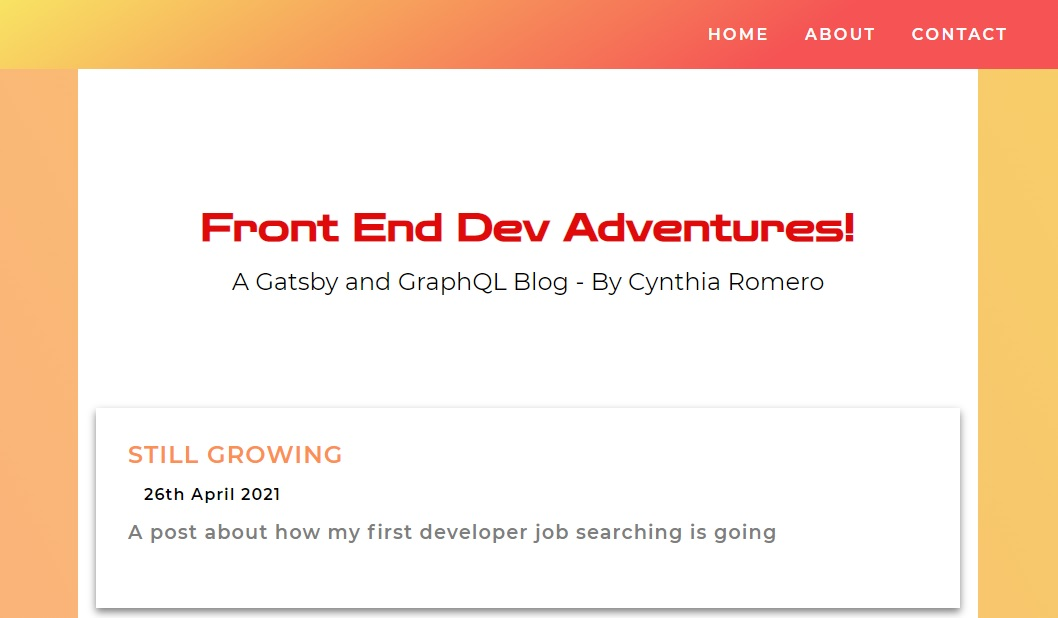
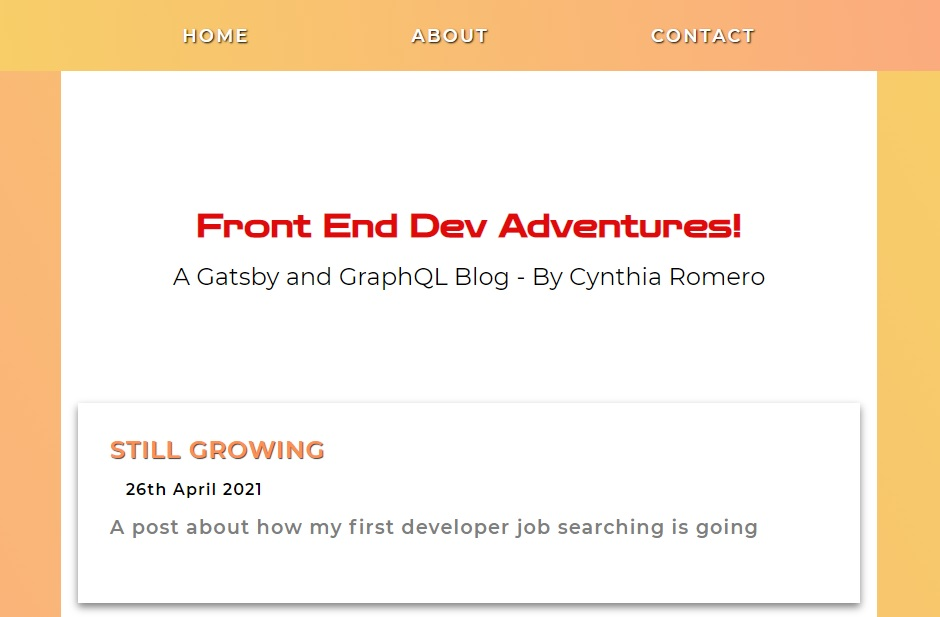
New styles

Changed region(s): [[0.0617, 0.0, 1.0, 1.0], [0.1851, 0.3387, 0.833, 0.4003], [0.1851, 0.4311, 0.833, 0.4927]]

diff --git a/src/components/scenes/MyProjects/Project.elements.js b/src/components/scenes/MyProjects/Project.elements.js
@@ -13,7 +13,9 @@ export const StyledProject = styled.article`
   border-radius: 0.5rem;
   background-color: transparent;
   width: 90%;
-  background-color: rgba(0, 0, 0, 0.7);
+  background-color: rgba(0, 0, 0, 0.35);
+  border-bottom: 0.1rem solid rgba(0, 0, 0, 0.25);
+  border-left: 0.1rem solid rgba(0, 0, 0, 0.25);
   min-width: 18.75rem;
   box-shadow: 0.625rem 0.625rem 0.313rem 0rem rgba(0, 0, 0, 0.25);
 
@@ -68,7 +70,7 @@ export const ProjectButton = styled(Button)`
       color: #e0c3fc;
       border-color: #e0c3fc;
       background-image: none;
-      box-shadow: inset -0.1rem 0.15rem rgba(0, 0, 0, 0.63);
+      box-shadow: inset -0.1rem 0.15rem rgba(0, 0, 0, 0.35);
     }
   }
   ${Button}

diff --git a/src/components/styles/globalStyles.js b/src/components/styles/globalStyles.js
@@ -10,12 +10,11 @@ const GlobalStyle = createGlobalStyle`
     box-sizing: border-box;
 }
 
-body{
+body {
   font-family: "Montserrat", sans-serif;
   font-size: 19px;
   color: #e3e3e3;
-  background-color: #050767;
-  background-image: linear-gradient(225deg, #050767 0%, #54267b 50%, #1b6ba3 100%);
+  background-image: linear-gradient(45deg, #764ba2 0%, #6e45e2 100%);
   line-height: 1.75;
   letter-spacing: 0.07rem;
   display: flex;

diff --git a/src/components/layout/Container/Container.elements.js b/src/components/layout/Container/Container.elements.js
@@ -8,7 +8,9 @@ export const StyledContainer = styled.div`
   display: flex;
   justify-content: center;
   align-items: center;
-  background-color: rgba(0, 0, 0, 0.5);
+  background-color: rgba(0, 0, 0, 0.25);
+  border-bottom: 2px solid rgba(0, 0, 0, 0.15);
+  border-left: 2px solid rgba(0, 0, 0, 0.15);
 
   @media screen and (min-width: 768px) {
     width: 85vw;

diff --git a/src/components/layout/HomeLink/HomeLink.elements.js b/src/components/layout/HomeLink/HomeLink.elements.js
@@ -12,7 +12,7 @@ export const StyledHomeLink = styled.div`
   @media screen and (min-width: 900px) {
     &:hover {
       background-image: none;
-      box-shadow: inset -0.1rem 0.15rem rgba(0, 0, 0, 0.63);
+      box-shadow: inset -0.1rem 0.13rem rgba(0, 0, 0, 0.63);
       border-color: #00f59b;
 
       a {

diff --git a/src/containers/ContactMe/ContactMe.elements.js b/src/containers/ContactMe/ContactMe.elements.js
@@ -22,6 +22,7 @@ export const ContactButton = styled.a`
   border: 0.15rem solid transparent;
   border-radius: 1.5rem;
   padding: 1.1rem 1.5rem;
+  margin: 0.5rem;
 
   svg {
     fill: rgba(0, 0, 0, 0.75);
